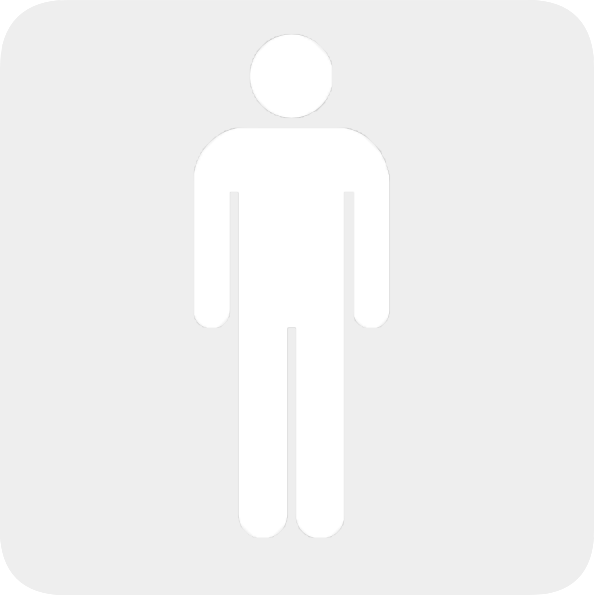
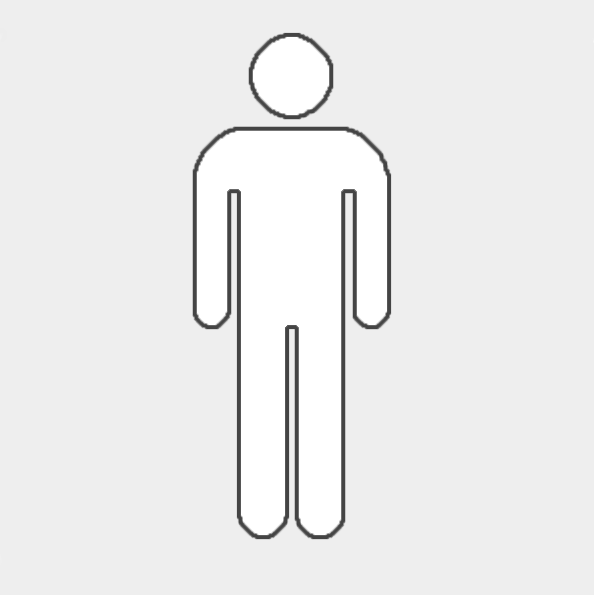
Added person visualization on visualize2.php

diff --git a/visualize2.php b/visualize2.php
@@ -1,0 +1,241 @@
+<!DOCTYPE html>
+<html lang="en">
+<head>
+    <title>TV48 - Visualization</title>
+    <title>TV48</title>
+    <meta charset="utf-8">
+    <? include('base.php'); ?>
+    <script src="http://cdnjs.cloudflare.com/ajax/libs/d3/2.10.0/d3.v2.min.js"></script>
+    <script src="nv.d3.js"></script>
+    <style>
+
+        .thin-wrapper {
+            display: none;
+        }
+
+        div#preload { 
+            display: none; 
+        }
+
+        body {
+            text-align: center;
+        }
+
+        #chart svg {
+          height: 675px;
+          width: 1450px;
+          margin-left: auto;
+          margin-right: auto;
+          margin-bottom: 50px;
+        }
+
+    </style>
+    <!--[if lt IE 9]>
+        <style>
+
+            .hide-this {
+                display: none;
+            }
+
+        </style>
+    <![endif]-->
+    <script>
+        nv.dev = false;
+        var average = [36, 35, 34, 21, 28, 28, 6, 9, 15, 31, 35, 24];
+        var actual = [40, 36, 45];
+
+        function sum(array) {
+            var sum = 0;
+            for (var i=0; i<array.length; i++) {
+                sum = sum + array[i];
+            }
+            return sum;
+        }
+
+        function expected_absolute(actual, average) {
+            var result = actual.slice(0);
+            var difference = 0;
+            for (var i = 0; i < actual.length; i++) {
+                difference = difference + actual[i] - average[i];
+            }
+            var average_difference = difference/actual.length;
+            for (var i = actual.length; i < average.length; i++) {
+                var entry = average[i] + average_difference;
+                if (entry > 0) {
+                    result.push(entry); 
+                } else {
+                    result.push(0);
+                }
+            }
+            console.log("Absolute: ", result);
+            return result;
+        }
+
+        function expected_percentage(actual, average) {
+            var result = actual.slice(0);
+            var difference = 0;
+            for (var i = 0; i < actual.length; i++) {
+                difference = difference + actual[i]/average[i];
+            }
+            var average_difference = difference/actual.length;
+            for (var i = actual.length; i < average.length; i++) {
+                result.push(average[i]*average_difference);
+            }
+            console.log("Percentage: ", result);
+            return result;
+        }
+
+        function expected_hybrid(actual, average) {
+            var result = [];
+            var percentage = expected_percentage(actual, average);
+            var absolute = expected_absolute(actual, average);
+            for (var i = 0; i<absolute.length; i++) {
+                result.push((absolute[i] + percentage[i])/2);
+            }
+            console.log("Hybrid: ", result);
+            return result;
+        }
+
+        function paired(array) {
+            var result = [];
+            for (var i = 0; i < array.length; i++) {
+                result.push({x: i + 1, y: array[i]});
+            }
+            return result;
+        }
+
+
+        $(document).ready(function() {
+            console.log("Actual: ", actual);
+            console.log("Average: ", average);
+            var absolute = expected_absolute(actual, average);
+            var percentage = expected_percentage(actual, average);
+            var hybrid = expected_hybrid(actual, average);
+
+            var absolute_object = paired(absolute);
+            var percentage_object = paired(percentage);
+            var hybrid_object = paired(hybrid);
+            var average_object = paired(average);
+
+            var expected_yearly = sum(hybrid);
+            var average_yearly = sum(average);
+            setTimeout(function() {co2(expected_yearly/average_yearly);}, 500);
+
+            nv.addGraph(function() {
+              var chart = nv.models.multiBarChart();
+
+              chart.xAxis
+                  .axisLabel('Month')
+                  .tickFormat(d3.format(',r'));
+
+              chart.yAxis
+                  .axisLabel('Energy Expenditure (KWh)')
+                  .tickFormat(d3.format('.02f'));
+
+              chart.showControls(false).stacked(false);
+
+              d3.select('#chart svg')
+                  .datum([
+                            {
+                              values: absolute_object,
+                              key: 'Absolute',
+                              color: '#ff7f0e'
+                            },
+                            {
+                              values: percentage_object,
+                              key: 'Percentage',
+                              color: '#2ca02c'
+                            }, 
+                            {
+                              values: hybrid_object,
+                              key: 'Hybrid',
+                              color: '#2f4f4f'
+                            }, 
+                            {
+                              values: average_object,
+                              key: 'Average',
+                              color: '#aa6600'
+                            }, 
+                         ])
+                  .transition().duration(500)
+                  .call(chart);
+
+
+              nv.utils.windowResize(chart.update);
+
+              return chart;
+            });
+        })
+
+        function template(string,data){
+            return string.replace(/%(\w*)%/g,function(m,key){
+                return data.hasOwnProperty(key)?data[key]:"";
+            });
+        }
+
+        function co2(percent) {
+            //could also switch templating like this to PHP code
+            var cloud = "<div class='remove-me' style='display: inline-block; padding: 15px;'>" +
+                             "<div class='gray-box' id='gray%count%' style='width: 512px; height: 510px; margin-right: auto; margin-left: auto; background-color: #333333; color: rgb(%red%, %green%, 0); font-size: 40px; padding-bottom: 0px; padding-top: 30px;'>" + 
+                             "</div>" +
+                             "<div style='text-align: center;'>" + 
+                                "<img src='images/person.png' style='margin-right: auto; margin-left: auto; margin-top: -550px;'>" +
+                            "</div>" + 
+                        "</div>";
+
+            // var person = "<div class='remove-me' style='display: inline-block; padding: 15px;'>" +
+            //                  "<div class='gray-box' id='gray%count%' style='width: 512px; height: 400px; margin-right: auto; margin-left: auto; background-color: #333333; color: rgb(%red%, %green%, 0); font-size: 40px; padding-bottom: 0px; padding-top: 30px;'>" + 
+            //                  "</div>" +
+            //                  "<div style='text-align: center;'>" + 
+            //                     "<img src='images/person.png' style='margin-right: auto; margin-left: auto; margin-top: -397px;'>" +
+            //                 "</div>" + 
+            //             "</div>";
+
+            $('.remove-me').remove();
+            var count = 1;
+
+            //color text to match the expected performance of the household
+            var original_percent = percent;
+            if (percent > 1 && percent < 1.25) {
+                var red = 180;
+                var green = 90;
+            } else if (percent > 1.25) {
+                var red = 220;
+                var green = 20;
+            } else if (percent < 1 && percent > .75) {
+                var green = 130;
+                var red = 90;                
+            } else {
+                var green = 200;
+                var red = 90;
+            }
+
+            while (percent > 1) { 
+                percent = percent - 1;
+                $('body').append(template(cloud, {'count': count, 'red': parseInt(red), 'green': parseInt(green)}));
+                count++;
+            }
+
+            $('body').append(template(cloud, {'count': count, 'red': parseInt(red), 'green': parseInt(green)}));
+
+            var height = percent * 305;
+            var offset = 305 - height;
+            $('#gray' + count).css('display', 'none');
+            $('#gray' + count).css('height', height + 'px');
+            $('#gray' + count).css('margin-top', offset + 'px');
+            $('#gray' + count).css('display', 'block');
+
+            height = $('.gray-box').first().height() - 30; 
+            // $('.gray-box').first().append('<div style="margin-top:' + height/2 + 'px; font-size: 80px;">' + (original_percent * 100).toFixed() + '%</div>')
+        }
+    </script>
+</head>
+<body>
+    <? include('header.php'); ?>
+    CO2 Visualization
+    <? include('header2.php'); ?>
+    <div id='chart'>
+        <svg></svg>
+    <div>
+</body>
+</html>
